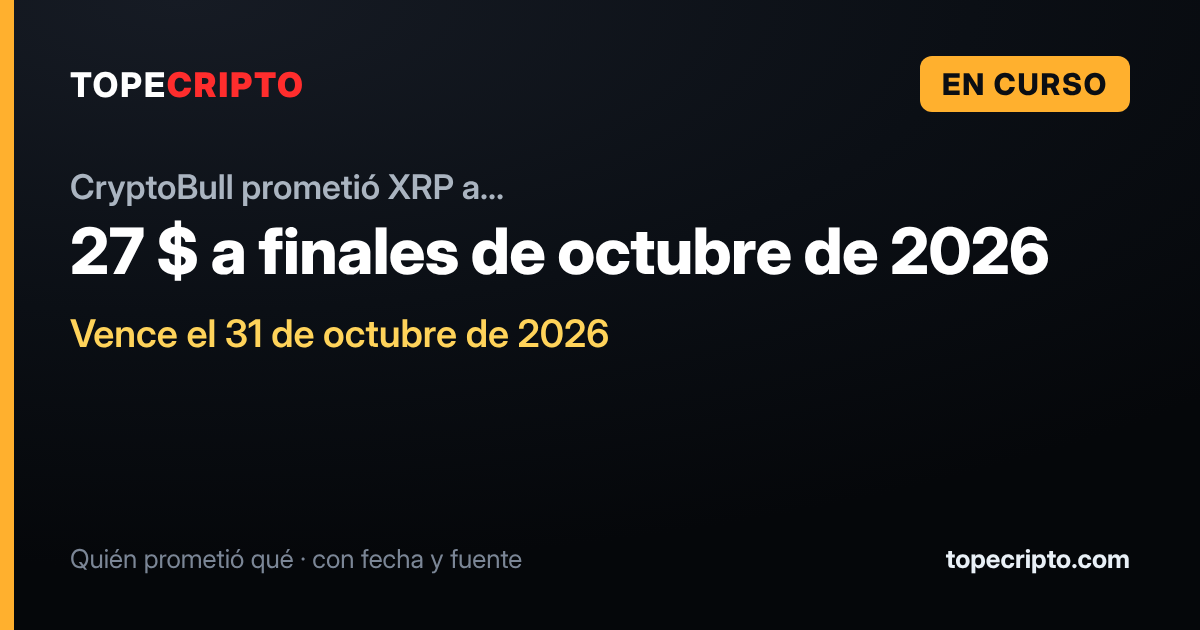
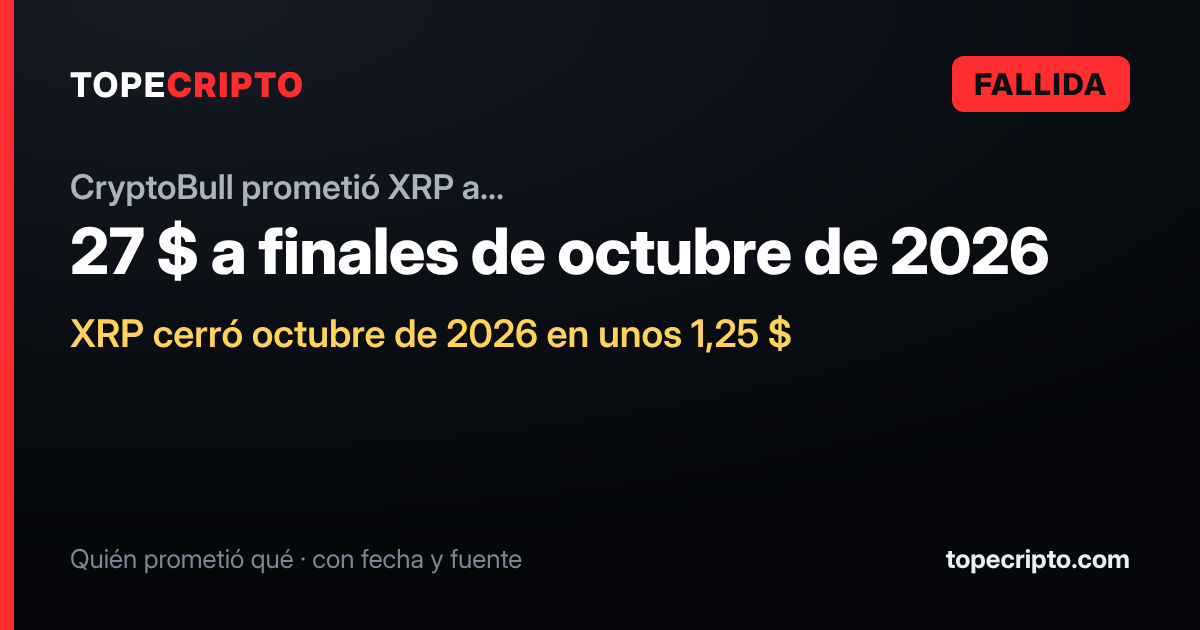
Cierra la promesa de CryptoBull (XRP a 27 $ en octubre de 2026): FALLIDA
XRP cerró octubre de 2026 en unos 1,25 $ (máximo del mes, unos 1,55 $ el 2 de octubre).
Se mueve al grupo de fallidas, se quita el objetivo en vivo y se regenera su imagen al compartir.

Claude-Session: https://claude.ai/code/session_01XTs1hPgikbpkhu7fMTpozc

Changed region(s): [[0.0617, 0.4825, 0.6783, 0.573], [0.0, 0.0, 0.0308, 1.0], [0.74, 0.0905, 0.9558, 0.181]]

diff --git a/src/promesas.js b/src/promesas.js
@@ -22,6 +22,14 @@ export const ST_COLOR = { FALLIDA: "#ff2d2d", "EN CURSO": "#ffb02e", CUMPLIDA: "
 export const CASES = [
   // ---------- FALLIDAS ----------
   {
+    id: "cryptobull-xrp-27-2026",
+    who: "CryptoBull", coin: "XRP", claim: "27 $ a finales de octubre de 2026", st: "FALLIDA",
+    p: "Lo dijo en agosto de 2026 este analista con cerca de un millón de seguidores en X, con XRP en unos 1,03 $. XRP cerró octubre de 2026 en unos 1,25 $; su máximo del mes fue de unos 1,55 $, el 2 de octubre.",
+    res: "XRP cerró octubre de 2026 en unos 1,25 $",
+    src: "https://finance.yahoo.com/markets/crypto/articles/xrp-price-prediction-analyst-says-125742956.html", sn: "Yahoo Finance",
+    src2: "https://www.investing.com/crypto/xrp/historical-data", sn2: "Investing.com",
+  },
+  {
     id: "bernstein-bitcoin-200000-2025",
     who: "Bernstein", coin: "BTC", claim: "200.000 $ a finales de 2025", st: "FALLIDA",
     p: "Subió su objetivo desde 150.000 $ en junio de 2024. Bitcoin cerró 2025 en unos 88.000 $.",
@@ -141,13 +149,6 @@ export const CASES = [
   },
 
   // ---------- EN CURSO ----------
-  {
-    id: "cryptobull-xrp-27-2026",
-    who: "CryptoBull", coin: "XRP", claim: "27 $ a finales de octubre de 2026", st: "EN CURSO", target: 27,
-    extra: "Lo dijo en agosto de 2026 este analista con cerca de un millón de seguidores en X, con XRP en unos 1,03 $. Vence el 31 de octubre de 2026.",
-    res: "Vence el 31 de octubre de 2026",
-    src: "https://finance.yahoo.com/markets/crypto/articles/xrp-price-prediction-analyst-says-125742956.html", sn: "Yahoo Finance",
-  },
   {
     id: "sc-bitcoin-300000-2026",
     who: "Standard Chartered", coin: "BTC", claim: "300.000 $ a finales de 2026", st: "EN CURSO", target: 300000,
